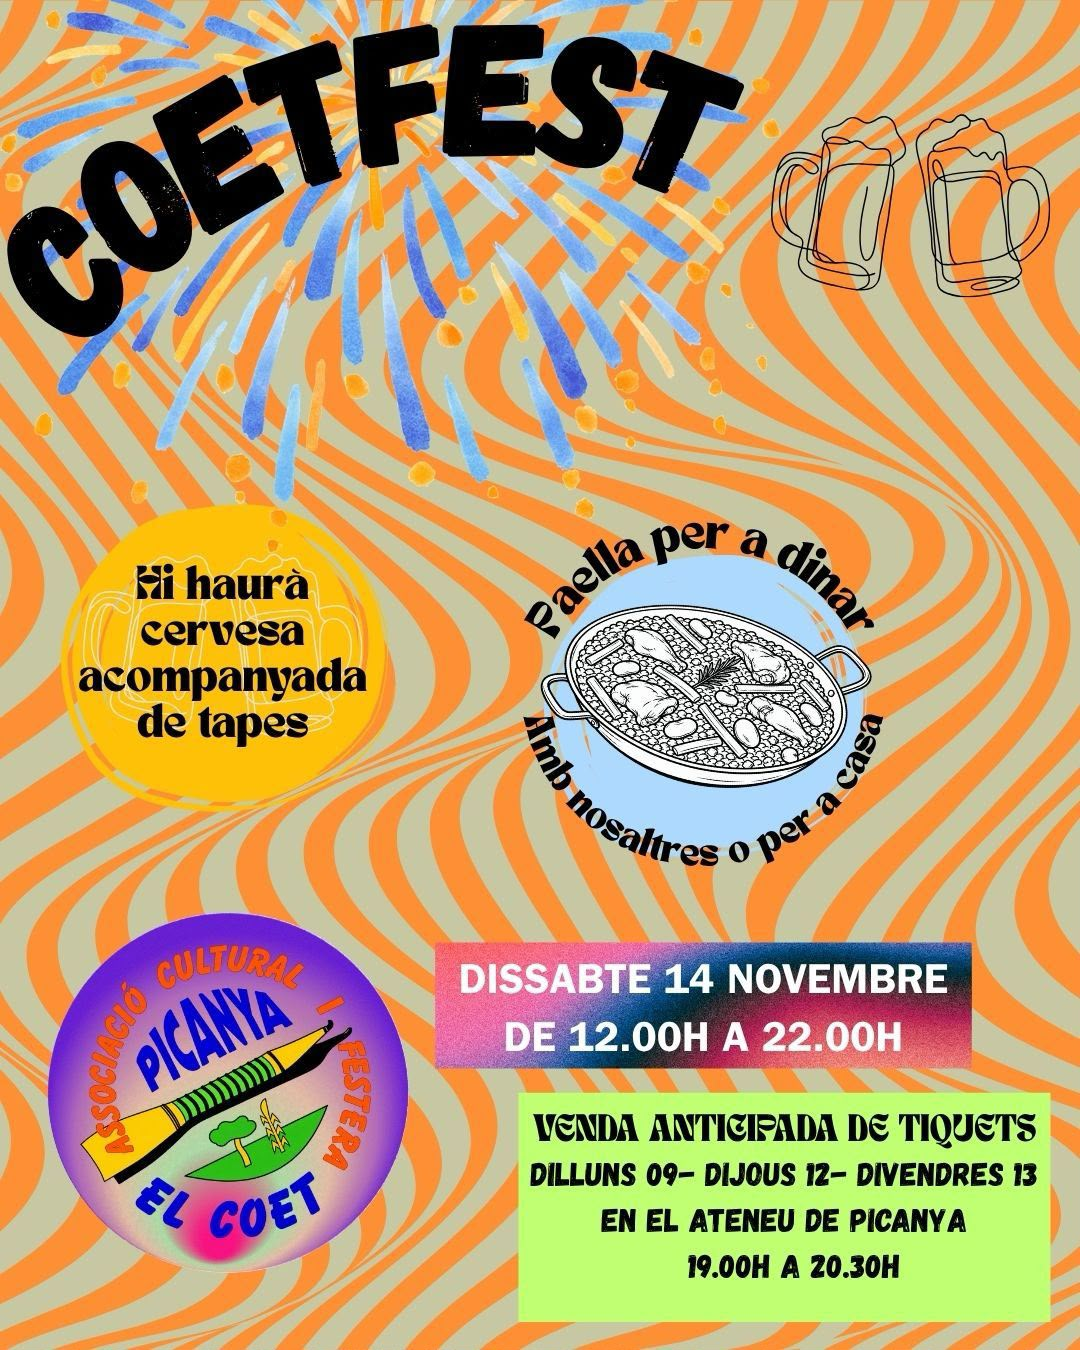
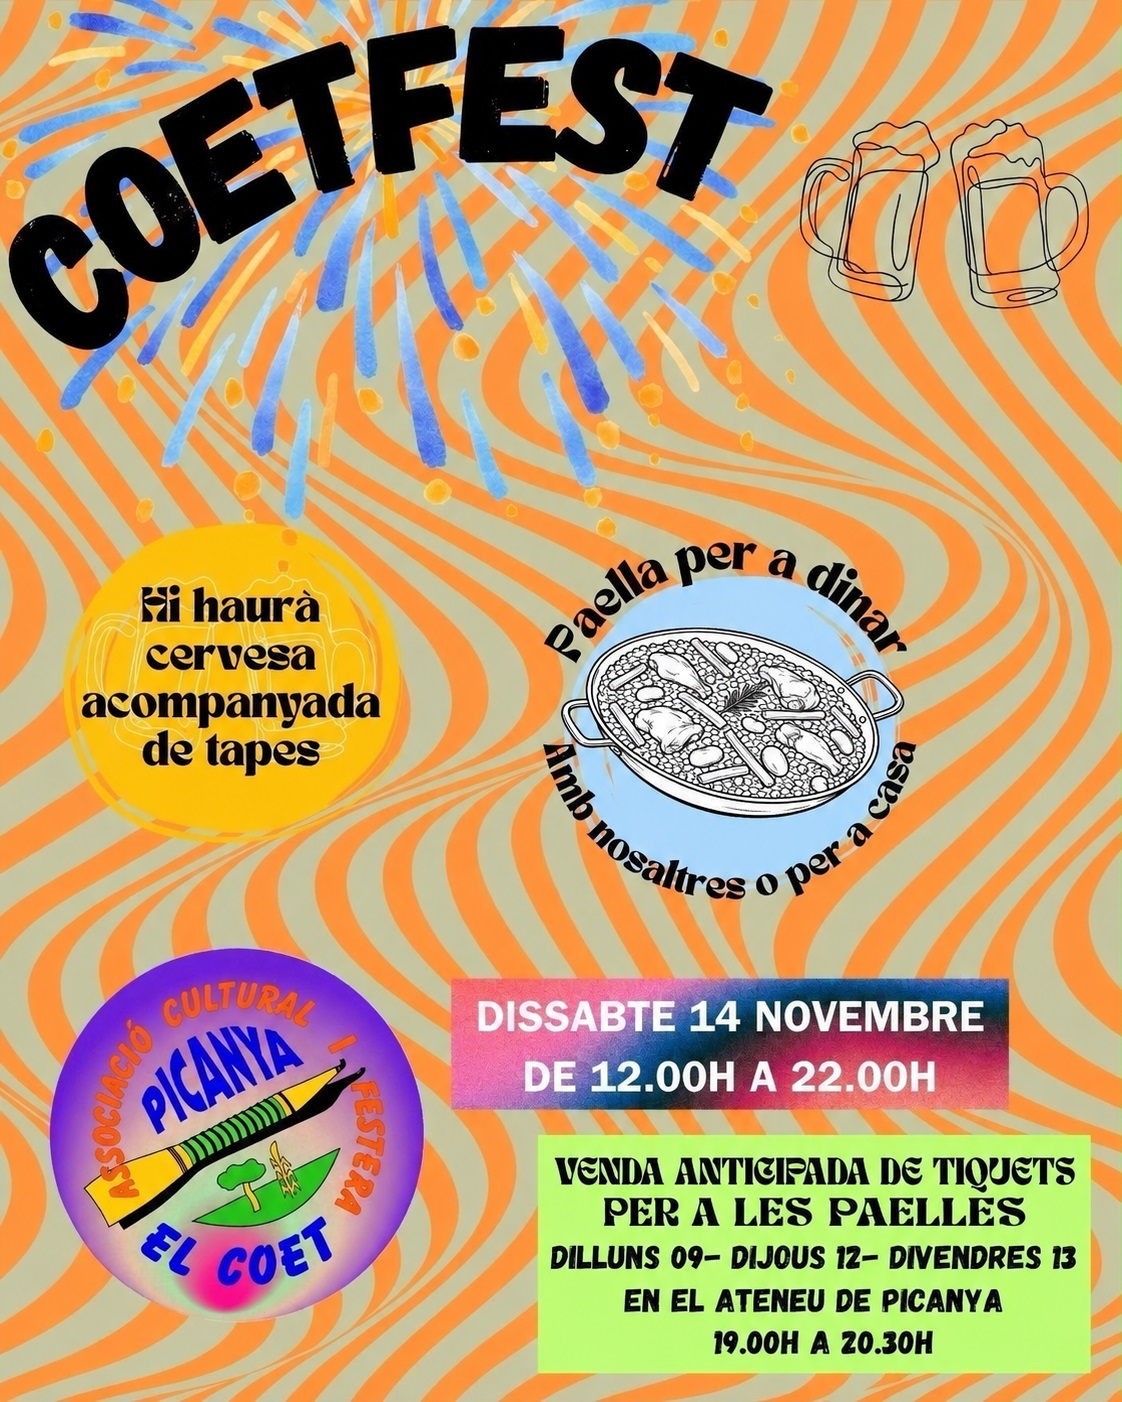
Use the new CoetFest poster and match the ticket wording
The artwork was replaced with the version that says tickets are sold for the
paellas, so the page text now uses the same wording and the cache moves on so
phones do not keep the old image.

🤖 Generated with Codebuff

diff --git a/copia/novetats.html b/copia/novetats.html
@@ -37,7 +37,7 @@
 
         <p translate="no">📅 DISSABTE 14 DE NOVEMBRE<br>🕛 De 12.00 h a 22.00 h.</p>
 
-        <p translate="no">🎟 VENDA ANTICIPADA DELS TIQUETS DE LA PAELLA:<br>📍 A l’Ateneu de Picanya.<br>🗓 Dilluns 9, dijous 12 i divendres 13 de novembre.<br>🕖 De 19.00 h a 20.30 h.</p>
+        <p translate="no">🎟 VENDA ANTICIPADA DE TIQUETS PER A LES PAELLES:<br>📍 A l’Ateneu de Picanya.<br>🗓 Dilluns 9, dijous 12 i divendres 13 de novembre.<br>🕖 De 19.00 h a 20.30 h.</p>
 
         <p translate="no">No vos quedeu sense el vostre tiquet per a la paella! 😉</p>
 

diff --git a/novetats.html b/novetats.html
@@ -37,7 +37,7 @@
 
         <p translate="no">📅 DISSABTE 14 DE NOVEMBRE<br>🕛 De 12.00 h a 22.00 h.</p>
 
-        <p translate="no">🎟 VENDA ANTICIPADA DELS TIQUETS DE LA PAELLA:<br>📍 A l’Ateneu de Picanya.<br>🗓 Dilluns 9, dijous 12 i divendres 13 de novembre.<br>🕖 De 19.00 h a 20.30 h.</p>
+        <p translate="no">🎟 VENDA ANTICIPADA DE TIQUETS PER A LES PAELLES:<br>📍 A l’Ateneu de Picanya.<br>🗓 Dilluns 9, dijous 12 i divendres 13 de novembre.<br>🕖 De 19.00 h a 20.30 h.</p>
 
         <p translate="no">No vos quedeu sense el vostre tiquet per a la paella! 😉</p>
 

diff --git a/copia/service-worker.js b/copia/service-worker.js
@@ -17,7 +17,7 @@ try {
   importScripts("https://cdn.onesignal.com/sdks/web/v16/OneSignalSDK.sw.js");
 }
 
-var CACHE = "acf-el-coet-v13";
+var CACHE = "acf-el-coet-v14";
 var ICONO = "icons/icon-192.png";
 
 var APP_SHELL = [

diff --git a/service-worker.js b/service-worker.js
@@ -17,7 +17,7 @@ try {
   importScripts("https://cdn.onesignal.com/sdks/web/v16/OneSignalSDK.sw.js");
 }
 
-var CACHE = "acf-el-coet-v13";
+var CACHE = "acf-el-coet-v14";
 var ICONO = "icons/icon-192.png";
 
 var APP_SHELL = [
